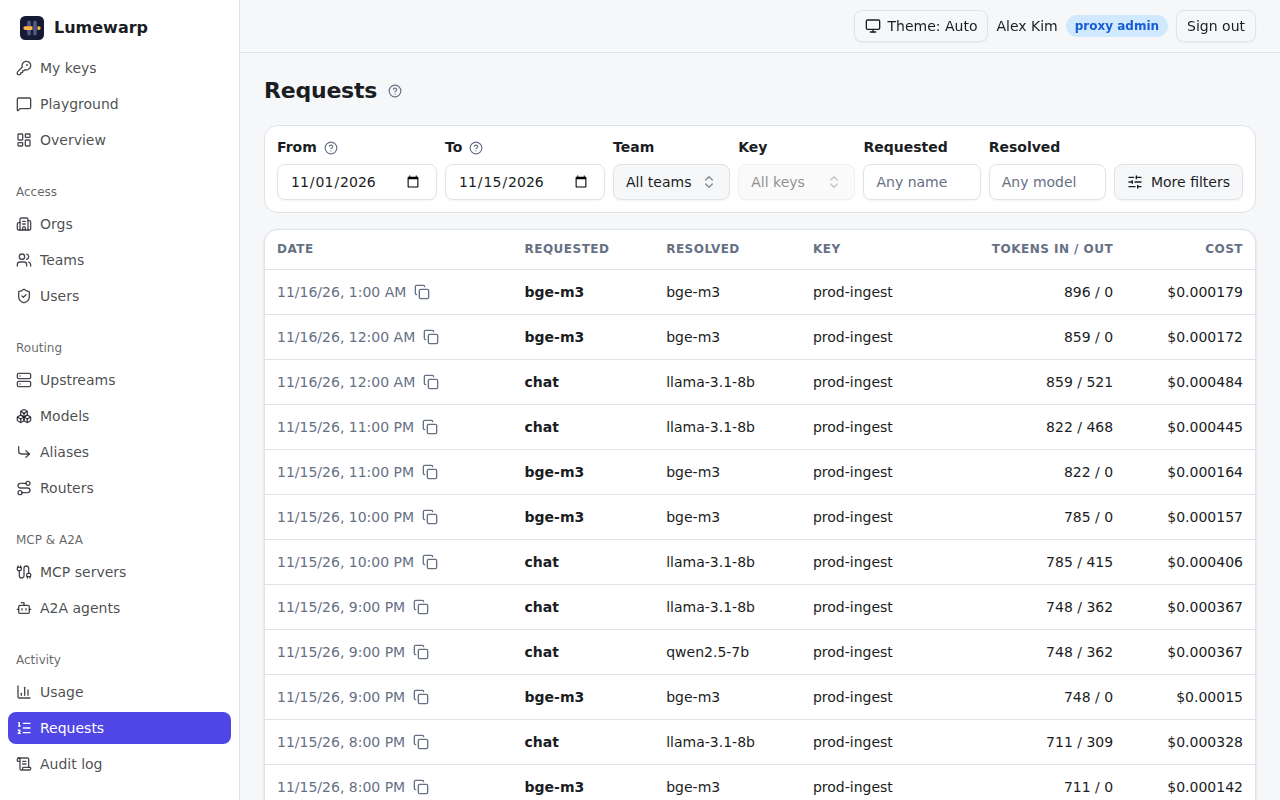
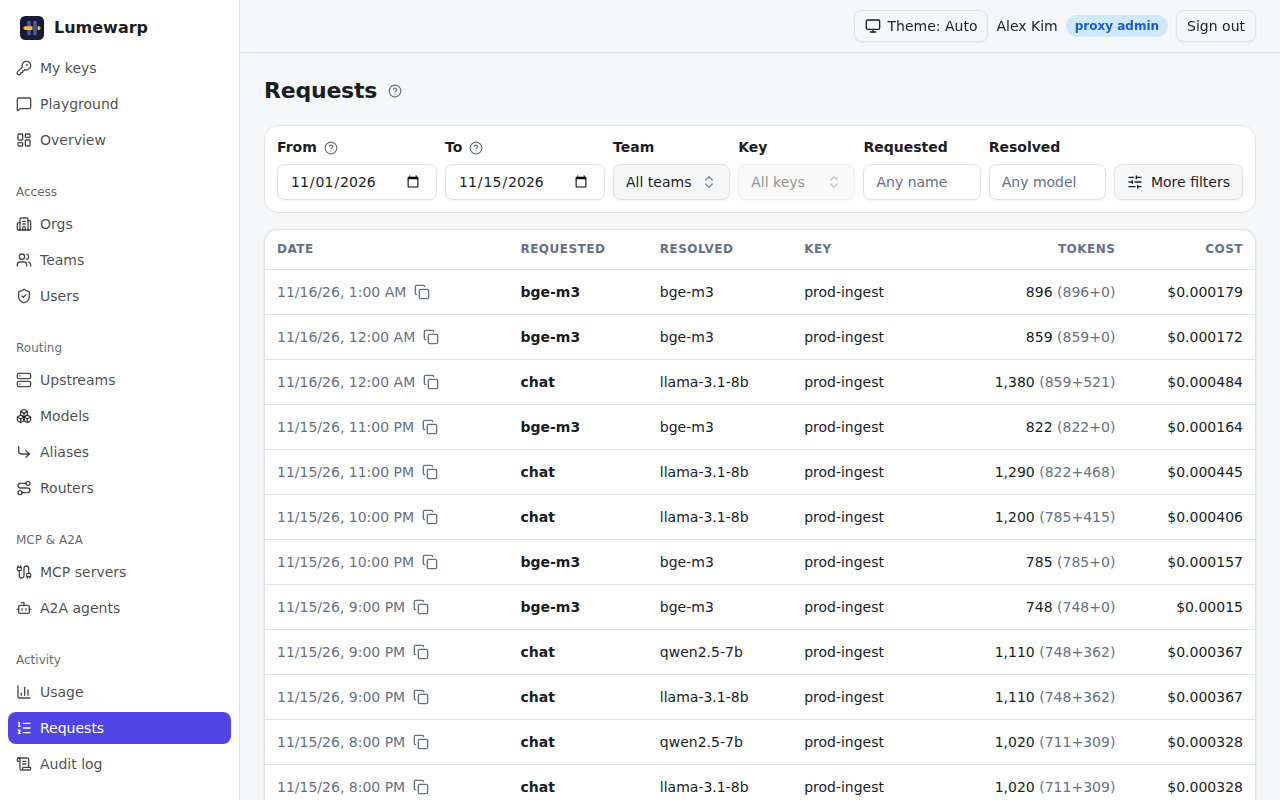
Show request tokens as the total with input+output in brackets
Claude-Session: https://claude.ai/code/session_01W9iuh4bNiqzxgJ3JHWGcEk

diff --git a/ui/e2e/requests.spec.ts b/ui/e2e/requests.spec.ts
@@ -33,7 +33,7 @@ test("lists requests newest first, renders the name chain, and defaults to LLM f
   expect(query.get("to")).toBeNull();
   await expect(page.getByRole("navigation", { name: "Main" }).getByRole("link", { name: "Requests", exact: true })).toBeVisible();
 
-  for (const header of ["Date", "Requested", "Resolved", "Key", "Tokens in / out", "Cost"]) {
+  for (const header of ["Date", "Requested", "Resolved", "Key", "Tokens", "Cost"]) {
     await expect(page.getByRole("columnheader", { name: header, exact: true })).toBeVisible();
   }
 
@@ -151,6 +151,7 @@ test("follows next_cursor and shows the Playground attribution", async ({ page }
 
   await page.goto("/requests");
   await expect(chain(page).filter({ hasText: "first-page" })).toBeVisible();
+  await expect(page.getByRole("cell", { name: "15 (10+5)", exact: true })).toBeVisible();
   const nextPage = page.waitForRequest((request) => new URL(request.url()).searchParams.get("cursor") === "page-2");
   await page.getByRole("button", { name: "Next page" }).click();
   await nextPage;

diff --git a/ui/src/pages/Requests.tsx b/ui/src/pages/Requests.tsx
@@ -307,12 +307,15 @@ export function Requests() {
           },
           {
             key: "tokens",
-            header: "Tokens in / out",
+            header: "Tokens",
             align: "right",
             hideBelow: "sm",
             cell: (row) => (
-              <span className="whitespace-nowrap">
-                {row.prompt_tokens.toLocaleString()} / {row.completion_tokens.toLocaleString()}
+              <span className="whitespace-nowrap" title="Total (input + output)">
+                {(row.prompt_tokens + row.completion_tokens).toLocaleString()}
+                <span className="text-muted-foreground">
+                  {" "}({row.prompt_tokens.toLocaleString()}+{row.completion_tokens.toLocaleString()})
+                </span>
               </span>
             ),
           },

diff --git a/docs/admin/requests.md b/docs/admin/requests.md
@@ -8,7 +8,7 @@ aggregates the same events; the audit log records administrative changes only.
 The page shows one row per request: **Date**, **Requested** (the name the client called),
 **Resolved** (the model that served it; hover for the alias, router, fallback and upstream
 it went through, and a badge shows the outcome of a request that did not complete),
-**Key** (with a Playground badge when sent from the Playground), **Tokens in / out** and
+**Key** (with a Playground badge when sent from the Playground), **Tokens** (total, with input + output in brackets) and
 **Cost**. The filter bar holds the range, team, key, requested and resolved names; the
 other filters are under **More filters**. The copy button next to the date copies the
 request id.
